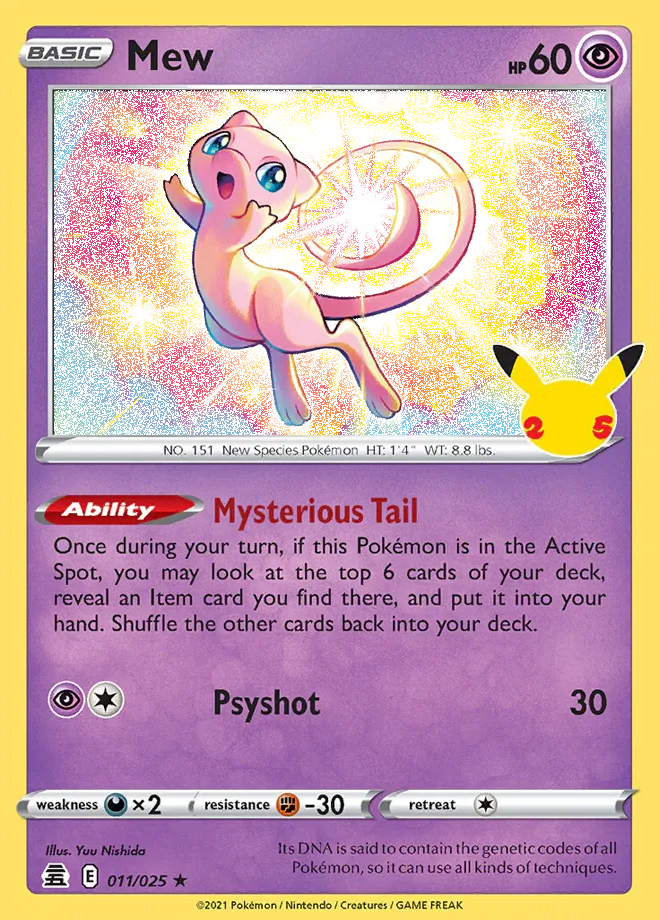
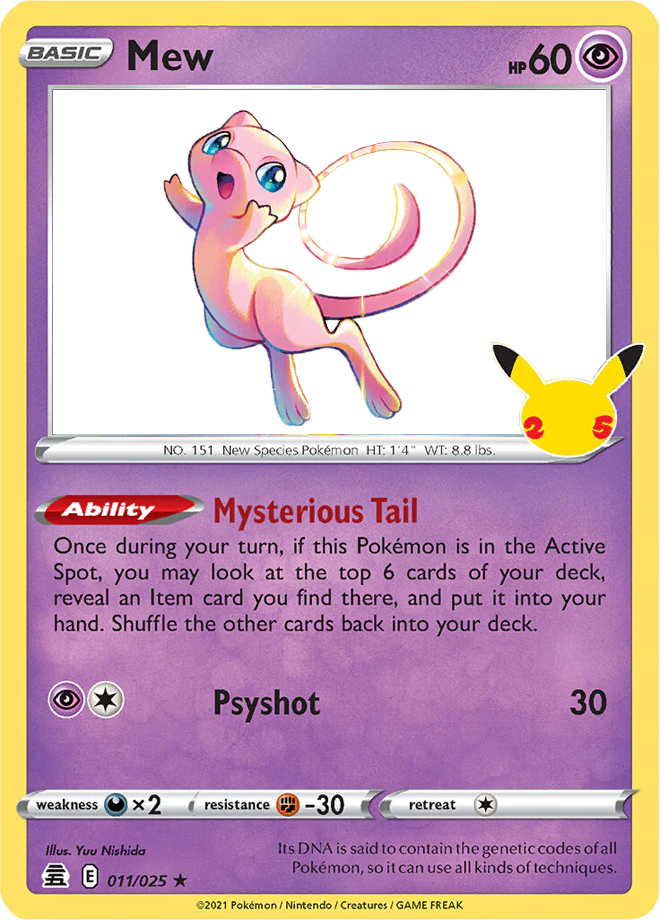
v4.5

diff --git a/index.html b/index.html
@@ -24,10 +24,67 @@
       <div class="carousel-container">
 
 
-
+        <div class="carousel-item">
+          <div class="tarjeta">
+            <div class="carta frente" data-circle="circle4 circlenegativo">
+              <div class="fondo-rainbow" ></div>
+              <img class="medio" src="assets/cartas/blas1.webp" style="filter: brightness(0.5) opacity(70%);" />                
+              <div class="efectoholograficolineas" style="z-index: 6; transform: rotate(135deg) scale(2); filter: opacity(30%);">
+                <div class="line-container" style="justify-content: first baseline;" >
+                  <div class="line line-rainbow" style=" box-shadow: 0px 0px 20px 20px rgb(0, 0, 0);"></div>
+                  <div class="line line-rainbow" style=" box-shadow: 0px 0px 20px 20px rgb(0, 0, 0);"></div>
+                  <div class="line line-rainbow" style=" box-shadow: 0px 0px 20px 20px rgb(0, 0, 0);"></div>
+                  <div class="line line-rainbow" style=" box-shadow: 0px 0px 20px 20px rgb(0, 0, 0);"></div>
+                </div>
+                <div class="line-container" style="justify-content: end;">
+                  <div class="line line-rainbow" style=" box-shadow: 0px 0px 20px 20px rgb(0, 0, 0);"></div>
+                  <div class="line line-rainbow" style=" box-shadow: 0px 0px 20px 20px rgb(0, 0, 0);"></div>
+                  <div class="line line-rainbow" style=" box-shadow: 0px 0px 20px 20px rgb(0, 0, 0);"></div>
+                  <div class="line line-rainbow" style=" box-shadow: 0px 0px 20px 20px rgb(0, 0, 0);"></div>
+                </div>
+                </div>
+              <img class="arriba" src="./assets/cartas/blas2.webp" />
+                <img class="sombra" src="assets/cartas/blas3.webp"  />
+                <img class="capaholograficaestrellas" src="assets/cartas/blas4.webp"  />
+                
+                
+            </div>
+            <div class="carta trasera"> </div>
+          </div>
+        </div>
+        
 
 
          <div class="carousel-item">
+          <div class="tarjeta">
+            <div class="carta frente" data-circle="circle4 circlenegativo">
+              <div class="fondo-rainbow" ></div>
+              <img class="medio" src="assets/cartas/macha1.webp" style="filter: brightness(0.5);" />                
+              <div class="efectoholograficolineas" style="z-index: 5; transform: rotate(100deg) scale(1.5);">
+                <div class="line-container" style="justify-content: first baseline;">
+                  <div class="line line-violet"></div>
+                  <div class="line line-violet"></div>
+                  <div class="line line-violet"></div>
+                  <div class="line line-violet"></div>
+                </div>
+                <div class="line-container" style="justify-content: end;">
+                  <div class="line line-violet"></div>
+                  <div class="line line-violet"></div>
+                  <div class="line line-violet"></div>
+                  <div class="line line-violet"></div>
+                </div>
+              </div>
+              <img class="arriba" src="./assets/cartas/macha2.webp" />
+                <img class="sombra" src="assets/cartas/macha3.webp"  />
+                <img class="capaholograficaestrellas" src="assets/cartas/macha4.webp"  />
+                
+                
+            </div>
+            <div class="carta trasera"> </div>
+          </div>
+        </div>
+
+        <div class="carousel-item">
           <div class="tarjeta">
             <div class="carta frente" data-circle="circle2 circle4 circlenegativo">
               <div class="fondo-rainbow" ></div>
@@ -49,6 +106,7 @@
               <img class="arriba" src="./assets/cartas/raykow2.webp" />
                 <img class="sombra" src="assets/cartas/raykow3.webp"  />
                 <img class="capaholograficaestrellas" src="assets/cartas/raykow4.webp"  />
+                
                 
             </div>
             <div class="carta trasera"> </div>
@@ -97,7 +155,7 @@
           </div>
         </div>
 
-        
+
         <div class="carousel-item">
           <div class="tarjeta">
             <div class="carta frente" data-circle="circle2 circle4 circlenegativo">
@@ -125,7 +183,7 @@
           </div>
         </div>
 
-         
+
          <div class="carousel-item">
           <div class="tarjeta">
             <div class="carta frente" data-circle="circle1 circle2 circlenegativo">
@@ -145,8 +203,8 @@
                   <div class="line line-rainbow" style=" box-shadow: 0px 0px 8px 4px rgb(255, 0, 195);"></div>
                 </div>
                 </div>
-              <img class="arriba" src="./assets/cartas/evee2.webp";" style="z-index: 10;" />
-                <img class="sombra" src="assets/cartas/evee3.webp" ;"  />
+              <img class="arriba" src="./assets/cartas/evee2.webp" style="z-index: 10;" />
+                <img class="sombra" src="assets/cartas/evee3.webp"  />
                 <div class="capaholograficaestrellas"></div>
             </div>
             <div class="carta trasera"> </div>
@@ -237,38 +295,14 @@
               </div>     
             </div>
 
-            <div class="carousel-item">
-              <div class="tarjeta">
-                <div class="carta frente" data-circle="circle4 circlenegativo">
-                  <div class="fondo-rainbow" ></div>
-                  <img class="medio" src="assets/cartas/mewrainbow0.webp" style="filter: opacity(50%)"/>                
-                  <div class="efectoholograficolineas" style="z-index: 8; transform: rotate(98deg) scale(1.5);">
-                    <div class="line-container" style="justify-content: first baseline;" >
-                      <div class="line line-rainbow" style=" box-shadow: 0px 0px 8px 4px rgb(253, 237, 9);"></div>
-                      <div class="line line-rainbow" style=" box-shadow: 0px 0px 8px 4px rgb(0, 240, 192);"></div>
-                      <div class="line line-rainbow" style=" box-shadow: 0px 0px 8px 4px rgb(255, 213, 3);"></div>
-                      <div class="line line-rainbow" style=" box-shadow: 0px 0px 8px 4px rgb(255, 0, 187);"></div>
-                    </div>
-                    <div class="line-container" style="justify-content: end;">
-                      <div class="line line-rainbow" style=" box-shadow: 0px 0px 8px 4px rgb(140, 144, 255);"></div>
-                      <div class="line line-rainbow" style=" box-shadow: 0px 0px 8px 4px rgb(255, 76, 76);"></div>
-                      <div class="line line-rainbow" style=" box-shadow: 0px 0px 8px 4px rgb(14, 255, 34);"></div>
-                      <div class="line line-rainbow" style=" box-shadow: 0px 0px 8px 4px rgb(0, 191, 255);"></div>
-                    </div>
-                    </div>
-                    <img class="arriba" src="./assets/cartas/mewrainbow1.webp" />
-                    <img class="sombra" src="assets/cartas/mewrainbow2.webp"   />
-                </div>
-                <div class="carta trasera"> </div>
-              </div>     
-            </div>
 
 
             <div class="carousel-item">
               <div class="tarjeta">
                 <div class="carta frente" data-circle="circle4 circle5 circlenegativo">
-                  <div class="fondo-rainbow" style="background-image: url(./assets/coloresruido.webp);" ></div>
-                  <img class="medio" src="assets/cartas/jira1.webp"/>    
+                  <div class="fondo-rainbow" ></div>
+                  <img class="medio" src="assets/cartas/jira1.webp"/>  
+                  <img class="medio" src="assets/cartas/jira-1.webp"  style="z-index: 20;"/>   
                   <div class="efectoholograficolineas" style="z-index: 8; transform: rotate(45deg) translateX(-30px) scale(2);">
                     <div class="line-container" style="justify-content: first baseline;" >
                       <div class="line line-white"></div>
@@ -289,6 +323,33 @@
                 </div>
                 <div class="carta trasera"> </div>
               </div>     
+            </div>
+
+            <div class="carousel-item">
+              <div class="tarjeta">
+                <div class="carta frente" data-circle="circle6 circle4 circlenegativo">
+                  <div class="fondo-rainbow" ></div>
+                  <img class="medio" src="assets/cartas/mewrainbow0.webp" />                
+                  <div class="efectoholograficolineas" style="z-index: 2; transform: rotate(135deg) scale(2);">
+                    <div class="line-container" style="justify-content: first baseline;" >
+                      <div class="line line-rainbow" style=" box-shadow: 0px 0px 20px 20px rgb(0, 0, 0);"></div>
+                      <div class="line line-rainbow" style=" box-shadow: 0px 0px 20px 20px rgb(0, 0, 0);"></div>
+                      <div class="line line-rainbow" style=" box-shadow: 0px 0px 20px 20px rgb(0, 0, 0);"></div>
+                      <div class="line line-rainbow" style=" box-shadow: 0px 0px 20px 20px rgb(0, 0, 0);"></div>
+                    </div>
+                    <div class="line-container" style="justify-content: end;">
+                      <div class="line line-rainbow" style=" box-shadow: 0px 0px 20px 20px rgb(0, 0, 0);"></div>
+                      <div class="line line-rainbow" style=" box-shadow: 0px 0px 20px 20px rgb(0, 0, 0);"></div>
+                      <div class="line line-rainbow" style=" box-shadow: 0px 0px 20px 20px rgb(0, 0, 0);"></div>
+                      <div class="line line-rainbow" style=" box-shadow: 0px 0px 20px 20px rgb(0, 0, 0);"></div>
+                    </div>
+                    </div>
+
+                  <img class="arriba" src="./assets/cartas/mewrainbow1.webp" style="filter: brightness(1);"/>
+                    <img class="sombra" src="assets/cartas/mewrainbow2.webp" />
+                </div>
+                <div class="carta trasera"> </div>
+              </div>
             </div>
 
 
@@ -510,7 +571,7 @@
       <div class="main-container">
         <div class="overlay" id="overlay">
         </div>
-        <div class="botonreset" id="nuevoBoton" style="  background-image: url(../assets/reload.webp);"></div>
+        <div class="botonreset" id="nuevoBoton" ></div>
         
     </div>
 

diff --git a/style/style.css b/style/style.css
@@ -36,7 +36,7 @@
   animation: animacion3 4s ease-in-out infinite;
 }
 
-.tarjeta,
+.carta,
 .fondo-rainbow,
 .medio,
 .sombra,
@@ -58,6 +58,7 @@
 .circle3,
 .circle4,
 .circle5,
+.circle6,
 .arriba,
 .sombra,
 .overlay,
@@ -83,6 +84,7 @@
 .circle3,
 .circle4,
 .circle5,
+.circle6,
 .circlenegativo {
   position: absolute;
 }
@@ -101,36 +103,39 @@ overflow: hidden;
 }
 
 .tarjeta {
+  position: absolute;
+  width: 220px;
+  height: 300px;
   display: flex;
   perspective: 1000px;
   transform-style: preserve-3d;
+  transition: transform 0.4s ease, width 0.4s ease, height 0.4s ease;
 }
-.tarjeta:hover {
+
+.tarjeta.flip {
   animation-play-state: paused; 
+  width: 330px;
+  height: 450px;
+  transition: transform 0.4s ease, width 0.4s ease, height 0.4s ease;
+  
 }
-
-
+.tarjeta.flip > .frente{
+pointer-events: all;
+}
 
 .carta {
-  width: 220px;
-  height: 300px;
   filter: contrast(1.5);
   cursor:pointer;
   border-radius: 11px;
-transition: 0.2s ease;
 backface-visibility: hidden;
 
 }
-.carta:hover{
-  border-radius: 15px;
-  width: 330px;
-  height: 450px;
-
+.frente{
+  pointer-events: none;
 }
-
 .trasera{
   background-image: url(../assets/ATRAS.webp);
-  background-size: contain;
+  background-size: cover;
   transform: rotateY(180deg);
 }
 
@@ -140,13 +145,12 @@ backface-visibility: hidden;
 
 
 .fondo-rainbow{
-  background-size: auto;
   background: linear-gradient(45deg, rgba(0,255,76,1) 0%, rgba(255,0,228,1) 49%, rgba(0,202,255,1) 71%, rgba(255,248,0,1) 100%);
 }
 
 .medio {z-index: 5;}
 .arriba {z-index: 10;}
-.sombra {z-index: 12;}
+.sombra {z-index: 15;}
 .capaholograficaestrellas{
   position: absolute;
   width: 100%;
@@ -206,6 +210,9 @@ backface-visibility: hidden;
 }
 
 .carousel-item {
+  justify-content: center;
+  align-items: center;
+  display: flex;
   width: 330px;
   height: 450px;
   position: relative;
@@ -228,13 +235,15 @@ backface-visibility: hidden;
 
 
 .cartel {
+  justify-content: center;
   z-index: 700;
   background-color: rgba(0, 0, 0, 0.700);
   backdrop-filter:blur(0.2rem);
 }
 
 .cartel p{
-padding-top: 20%;
+  padding-top: 100px;
+  top: 100px;
   text-align: center;
   font-size: 150%;
   color: rgb(255, 255, 255);
@@ -250,6 +259,7 @@ padding-top: 20%;
   z-index: 999999;
   transition: 0.4s;
 }
+
 
 
 .botonreset:hover{
@@ -291,6 +301,11 @@ cursor: pointer;
   box-shadow: 0px 0px 100px 100px rgb(255, 255, 255);
   z-index: 9;
 }
+.circle6 {
+  /*---------------abajo de troquel amplio-------------------*/
+  box-shadow: 0px 0px 50px 50px rgb(255, 255, 255);
+  z-index: 4;
+}
 .circle5 {
   /*---------------abajo de troquel chico-------------------*/
   box-shadow: 0px 0px 50px 50px rgb(255, 255, 255);
@@ -317,8 +332,8 @@ cursor: pointer;
 }
 .circlenegativo {
   /*---------------sombra carta-------------------*/
-  box-shadow: 0px 0px 300px 100px rgba(0, 0, 0, 0.467);
-  z-index: 13;
+  box-shadow: 0px 0px 300px 100px rgba(0, 0, 0, 0.183);
+  z-index: 30;
 }
 
 

diff --git a/sketch/sketch.js b/sketch/sketch.js
@@ -140,7 +140,7 @@ document.addEventListener("DOMContentLoaded", function() {
   });
 });
 
-// ----------------- ANGULO DE ROTACIÓN Y CARTA AL AZAR -----------------
+// ----------------- 3 CARTAS AL AZAR -----------------
 
 document.addEventListener("DOMContentLoaded", function () {
   const carouselItems = document.querySelectorAll('.carousel-item'); // Selecciona los contenedores de tarjetas
@@ -215,5 +215,20 @@ document.addEventListener('DOMContentLoaded', function() {
     this.addEventListener('animationend', function() {
       this.classList.remove('animar');
     });
+  });
+});
+
+
+
+
+document.querySelectorAll('.tarjeta').forEach(tarjeta => {
+  // Evento para activar el flip al hacer clic
+  tarjeta.addEventListener('click', () => {
+    tarjeta.classList.add('flip');
+  });
+
+  // Evento para revertir el flip al salir del contenedor
+  tarjeta.addEventListener('mouseleave', () => {
+    tarjeta.classList.remove('flip');
   });
 });
